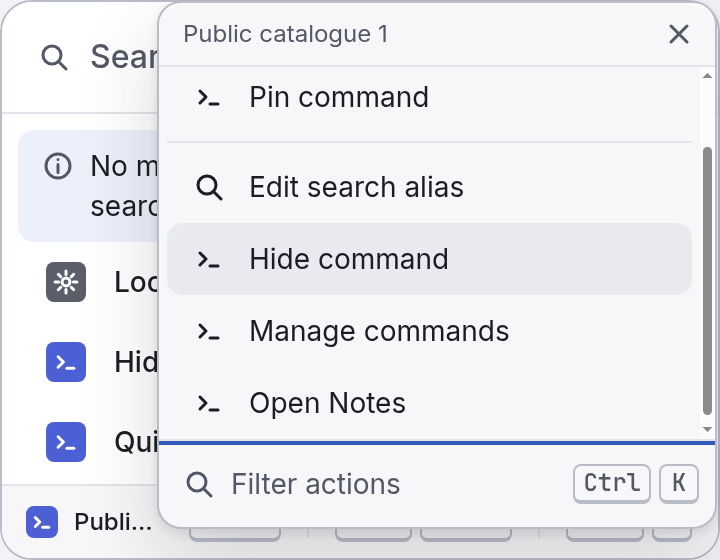
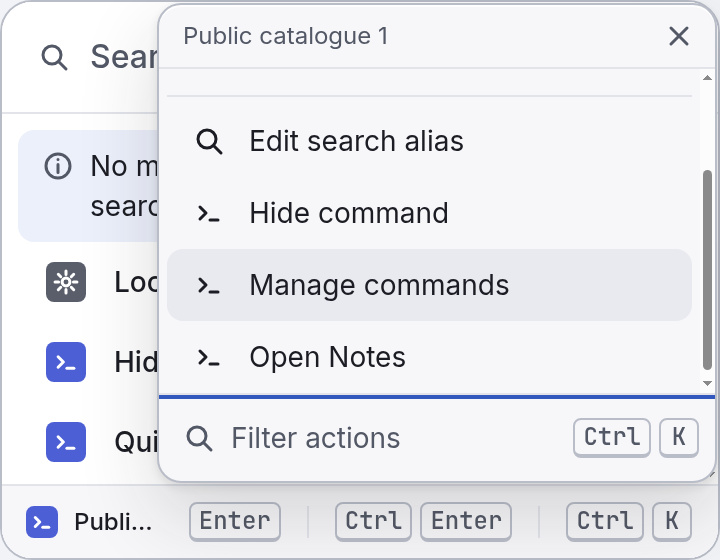
fix(ui): scope footer chords, reveal cleared-query selection, re-anchor live action panel
- Footer Enter/Ctrl+Enter keycaps (and their accessible-name hint) are shown
  only while those chords are bound: while an editable control other than the
  collection query has focus they keep native editing behaviour and the verbs
  stay plain buttons. Controls inside dialogs do not change the context, which
  avoids a hint flip/layout shift that could swallow the next click.
- After a nonempty root query is cleared, the preserved stable selection is
  scrolled into the result viewport once the settled unfiltered results
  render; no focus change, invocation or scrolling on later revisions.
- The open action panel re-anchors on every render and on panel/footer/shell
  resize, bounded to the shell above the footer (viewport fallback when header
  + one row + filter cannot fit). A live snapshot that grows the actions no
  longer pushes the filter below the viewport; focus, highlight, scroll and
  current-revision dispatch are unchanged. ResizeObserver is optional.

Regressions (Chromium) fail on eae6a6d and pass here: editable text footer,
cleared-query reveal and live action growth/shrink; the non-editable detail
control passes on both. New captures added; only panel-placement captures
regenerated, historical/unaffected captures restored.

diff --git a/packages/ui/src/views/renderer.tsx b/packages/ui/src/views/renderer.tsx
@@ -76,21 +76,41 @@ function ActionPanel({ actions, context, invoke, close, host }: { actions: Actio
   const active = filtered.find(action => action.id === selected) ?? filtered[0];
   const id = useId();
   useLayoutEffect(() => { const prior = document.activeElement; const element = dialog.current; element?.showModal(); element?.querySelector<HTMLInputElement>('input[type="search"]')?.focus(); return () => { element?.close(); if (prior instanceof HTMLElement && prior.isConnected) prior.focus(); }; }, []);
+  // Anchor above the footer hint, bounded by the shell and viewport. The list scrolls so the
+  // header and bottom filter stay reachable in compact windows, at 200% zoom and when a live
+  // snapshot grows or shrinks the actions while the panel is open. Placement only: it never
+  // moves focus, the highlight or the list scroll position.
+  const place = useRef(() => {});
+  place.current = () => {
+    const element = dialog.current; const view = element?.closest('.lc-view'); const shell = element?.closest('.lc-view-shell');
+    if (!element || !shell) return;
+    const bounds = shell.getBoundingClientRect(); const footer = view?.querySelector('.lc-view-footer')?.getBoundingClientRect();
+    const gap = parseFloat(getComputedStyle(element).getPropertyValue('--lc-panel-gap')) || 8;
+    const anchor = Math.min(footer && footer.height ? footer.top : bounds.bottom, window.innerHeight) - gap;
+    // Prefer the shell space above the footer; if even header + one row + filter cannot fit
+    // there, fall back to the viewport so every control stays reachable.
+    const parts = ['.lc-panel-header', '.lc-panel-filter', '.lc-panel-action, .lc-panel-empty'].map(selector => element.querySelector<HTMLElement>(selector)?.offsetHeight ?? 0);
+    const edges = element.offsetHeight - element.clientHeight;
+    const minimum = parts.reduce((total, value) => total + value, edges);
+    const ceiling = Math.max(gap, bounds.top + gap), fits = anchor - ceiling >= minimum;
+    const cap = Math.max(0, fits ? anchor - ceiling : window.innerHeight - gap * 2);
+    if (element.style.maxBlockSize !== `${cap}px`) element.style.maxBlockSize = `${cap}px`;
+    const size = element.getBoundingClientRect();
+    element.style.left = `${Math.max(gap, Math.min(bounds.right - size.width - gap, window.innerWidth - size.width - gap))}px`;
+    element.style.top = `${Math.max(fits ? ceiling : gap, Math.min(anchor - size.height, window.innerHeight - gap - size.height))}px`;
+  };
+  // Every render (new actions, filter, revision) re-anchors synchronously before paint.
+  useLayoutEffect(() => { place.current(); });
   useLayoutEffect(() => {
-    // Anchor above the footer hint, inside the shell and viewport. The list scrolls so the
-    // header and bottom filter stay reachable in compact windows and at 200% zoom.
-    const position = () => {
-      const element = dialog.current; const view = element?.closest('.lc-view'); const shell = element?.closest('.lc-view-shell');
-      if (!element || !shell) return;
-      const bounds = shell.getBoundingClientRect(); const footer = view?.querySelector('.lc-view-footer')?.getBoundingClientRect();
-      const gap = parseFloat(getComputedStyle(element).getPropertyValue('--lc-panel-gap')) || 8;
-      const size = element.getBoundingClientRect();
-      const anchor = Math.min(footer && footer.height ? footer.top : bounds.bottom, window.innerHeight) - gap;
-      element.style.left = `${Math.max(gap, Math.min(bounds.right - size.width - gap, window.innerWidth - size.width - gap))}px`;
-      element.style.top = `${Math.max(gap, anchor - size.height)}px`;
-    };
-    position(); window.addEventListener('resize', position); return () => window.removeEventListener('resize', position);
-  }, [query]);
+    const element = dialog.current; const view = element?.closest('.lc-view');
+    let frame = 0;
+    const schedule = () => { if (!frame) frame = requestAnimationFrame(() => { frame = 0; place.current(); }); };
+    // Environments without ResizeObserver still re-anchor on every render and window resize.
+    const observer = typeof ResizeObserver === 'undefined' ? null : new ResizeObserver(schedule);
+    for (const target of [element, element?.querySelector('.lc-action-list'), view?.querySelector('.lc-view-footer'), element?.closest('.lc-view-shell')]) if (target) observer?.observe(target);
+    window.addEventListener('resize', schedule);
+    return () => { cancelAnimationFrame(frame); observer?.disconnect(); window.removeEventListener('resize', schedule); };
+  }, []);
   const keys = (event: KeyboardEvent) => {
     if (event.nativeEvent.isComposing) return;
     event.stopPropagation();
@@ -164,6 +184,7 @@ function useGridColumns(grid: RefObject<HTMLDivElement | null>, enabled: boolean
       setColumns(width > 0 && cell > 0 ? Math.max(1, Math.floor((width + gap) / (cell + gap))) : 1);
     };
     measure();
+    if (typeof ResizeObserver === 'undefined') return;
     const observer = new ResizeObserver(measure); observer.observe(element);
     return () => observer.disconnect();
   }, [grid, enabled, density]);
@@ -186,6 +207,12 @@ function ViewContent({ frame, session, host, active, canBack }: { frame: ViewFra
   const [discard, setDiscard] = useState<'back' | 'cancel' | null>(null);
   const [text, setText] = useState(view.kind === 'text' ? view.text : '');
   const [split, setSplit] = useState(SPLIT.initial);
+  // Enter/Ctrl+Enter are not view chords while an editable control (other than the collection
+  // query) has focus: there they keep native editing behaviour. Footer hints follow that context.
+  const [editing, setEditing] = useState(false);
+  // One-shot: after a nonempty root query is cleared, reveal the preserved selection once the
+  // settled (non-loading) unfiltered results render. Ordinary revisions never scroll.
+  const reveal = useRef(false);
   const collection = view.kind === 'list' || view.kind === 'grid';
   const grid = view.kind === 'grid';
   const items = visibleItems(frame);
@@ -214,6 +241,7 @@ function ViewContent({ frame, session, host, active, canBack }: { frame: ViewFra
   };
   const changeQuery = (value: string) => {
     if (!collection || !uiTextSchema.safeParse(value).success) return;
+    reveal.current = !canBack && value === '' && frame.query !== '';
     session.setQuery(view.viewId, value);
     host.queryChanged?.(view.viewId, value, session.getSnapshot().frames.find(entry => entry.view.viewId === view.viewId)!.queryRevision);
   };
@@ -230,6 +258,18 @@ function ViewContent({ frame, session, host, active, canBack }: { frame: ViewFra
     }
     else setPanel(false);
   }, [active, frame.view.viewId, view.kind]); // Ordinary revisions never steal focus.
+  useLayoutEffect(() => {
+    if (!reveal.current || !active || !collection) return;
+    if (frame.query !== '') { reveal.current = false; return; }
+    if (view.loading || !selected) return;
+    reveal.current = false;
+    const row = document.getElementById(itemId(selected)); const box = scroller.current;
+    if (!row || !box || !box.contains(row)) return;
+    // Adjust only the result viewport: no focus change, no document scroll, no invocation.
+    const rowBox = row.getBoundingClientRect(), port = box.getBoundingClientRect();
+    if (rowBox.top < port.top) box.scrollTop -= port.top - rowBox.top;
+    else if (rowBox.bottom > port.bottom) box.scrollTop += rowBox.bottom - port.bottom;
+  });
   const select = (id: string) => { session.select(view.viewId, id); host.selectionChanged?.(view.viewId, id); };
   const invoke = (id: string) => {
     // Re-read current state at the user event, not the action panel's opening revision.
@@ -339,7 +379,8 @@ function ViewContent({ frame, session, host, active, canBack }: { frame: ViewFra
   else content = <UnavailableState title="PDF preview unavailable" description="Connect the sandboxed document viewer to preview this file. Available document actions remain below." />;
   const secondary = view.kind !== 'form' ? actions[1] : undefined;
   const footerPrimary = view.kind !== 'form' ? actions[0] : undefined;
-  return <div ref={root} hidden={!active} className="lc-view" tabIndex={-1} onKeyDown={keyboard} onFocusCapture={event => { previousFocus.current = event.target; }}>
+  return <div ref={root} hidden={!active} className="lc-view" tabIndex={-1} onKeyDown={keyboard} onFocusCapture={event => { previousFocus.current = event.target; setEditing(editable(event.target) && !(event.target instanceof HTMLInputElement && event.target.dataset.viewQuery === 'true') && !(event.target instanceof HTMLElement && event.target.closest('dialog'))); }}
+    onBlurCapture={event => { if (!(event.relatedTarget instanceof Node && event.currentTarget.contains(event.relatedTarget))) setEditing(false); }}>
     <header className="lc-view-header" data-loading={view.loading || undefined}>
       {canBack ? <IconButton label="Back" aria-keyshortcuts="Escape" onClick={() => requestClose('back')}><LineIcon name="back" /></IconButton> : collection ? <span className="lc-view-search-glyph" aria-hidden="true"><LineIcon name="search" /></span> : null}
       {collection ? <TextField label={view.title} type="search" role="combobox" data-view-query="true" value={frame.query} placeholder={view.search.placeholder}
@@ -360,8 +401,8 @@ function ViewContent({ frame, session, host, active, canBack }: { frame: ViewFra
         <span className="lc-footer-title" dir="auto">{selected?.title ?? view.title}</span>
       </span>
       <div className="lc-footer-actions">
-        {footerPrimary && <Button variant="ghost" className="lc-footer-verb" aria-disabled={Boolean(footerPrimary.disabledReason)} title={footerPrimary.disabledReason} onClick={() => invoke(footerPrimary.id)}><span className="lc-footer-label">{footerPrimary.title}</span><ShortcutHint keys={['Enter']} /></Button>}
-        {secondary && <><span className="lc-footer-separator" aria-hidden="true" /><Button variant="ghost" className="lc-footer-verb" aria-disabled={Boolean(secondary.disabledReason)} title={secondary.disabledReason} onClick={() => invoke(secondary.id)}><span className="lc-footer-label">{secondary.title}</span><ShortcutHint keys={['Ctrl', 'Enter']} /></Button></>}
+        {footerPrimary && <Button variant="ghost" className="lc-footer-verb" aria-disabled={Boolean(footerPrimary.disabledReason)} title={footerPrimary.disabledReason} onClick={() => invoke(footerPrimary.id)}><span className="lc-footer-label">{footerPrimary.title}</span>{!editing && <ShortcutHint keys={['Enter']} />}</Button>}
+        {secondary && <><span className="lc-footer-separator" aria-hidden="true" /><Button variant="ghost" className="lc-footer-verb" aria-disabled={Boolean(secondary.disabledReason)} title={secondary.disabledReason} onClick={() => invoke(secondary.id)}><span className="lc-footer-label">{secondary.title}</span>{!editing && <ShortcutHint keys={['Ctrl', 'Enter']} />}</Button></>}
         {footerPrimary && <span className="lc-footer-separator" aria-hidden="true" />}
         <Button variant="ghost" className="lc-footer-verb" aria-haspopup="dialog" aria-expanded={panel && active} onClick={() => setPanel(true)}><span className="lc-footer-label">Actions</span> <ShortcutHint keys={['Ctrl', 'K']} /></Button>
       </div>

diff --git a/packages/ui/src/views/views.test.ts b/packages/ui/src/views/views.test.ts
@@ -283,3 +283,85 @@ test('composing Enter repeats retain native IME behavior while ordinary repeats 
   expect(await box.evaluate(element=>element.dispatchEvent(new KeyboardEvent('keydown',{key:'Enter',repeat:true,bubbles:true,cancelable:true})))).toBe(false);
   await expect(box).toBeVisible();await expect(page.locator('output')).toHaveText('No action requested.');
 });
+
+test('editable text footer advertises Enter/Ctrl+Enter only in contexts where those chords are bound', async ({ page }) => {
+  await page.getByRole('button', { name: 'Text', exact: true }).click();
+  const text = page.getByRole('textbox', { name: 'Public note', exact: true }); const footer = page.locator('.lc-view-footer');
+  await expect(text).toBeFocused();
+  // In the textarea Enter/Ctrl+Enter are native editing keys: no chord hint, no action.
+  await expect(footer.getByRole('button', { name: 'Save note', exact: true })).toBeVisible();
+  await expect(footer.getByRole('button', { name: 'Copy reference', exact: true })).toBeVisible();
+  await expect(footer.getByRole('img', { name: 'Enter', exact: true })).toHaveCount(0); await expect(footer.getByRole('img', { name: 'Ctrl+Enter', exact: true })).toHaveCount(0);
+  await expect(footer.getByRole('button', { name: 'Actions Ctrl+K', exact: true })).toBeVisible();
+  await text.press('End'); await text.press('Enter'); await page.keyboard.type('second public line'); await text.press('Control+Enter');
+  await expect(text).toHaveValue('First public line\nsecond public line'); await expect(page.locator('output')).toHaveText('No action requested.');
+  await page.setViewportSize({ width: 560, height: 1100 });
+  expect(await footer.getByRole('button', { name: 'Save note', exact: true }).locator('.lc-footer-label').evaluate(label => getComputedStyle(label).clipPath)).toBe('none'); // label stays visible without a keycap
+  await shot(page, 'dark-text-editing-footer');
+  await page.setViewportSize({ width: 1040, height: 1100 });
+  // Leaving the editor for the view surface restores the genuine chords, which then work.
+  await page.getByRole('heading', { name: 'Public note', exact: true }).click(); await expect(text).not.toBeFocused();
+  await expect(footer.getByRole('button', { name: 'Save note Enter', exact: true })).toBeVisible();
+  await expect(footer.getByRole('button', { name: 'Copy reference Ctrl+Enter', exact: true })).toBeVisible();
+  await shot(page, 'dark-text-view-footer');
+  await page.keyboard.press('Control+Enter'); await expect(page.locator('output')).toHaveText('Requested copy at revision 1.');
+  await page.keyboard.press('Enter'); await expect(page.locator('output')).toHaveText('Requested save-text at revision 1 with 1 fields.');
+  await text.focus(); await expect(footer.getByRole('img', { name: 'Enter', exact: true })).toHaveCount(0);
+});
+
+test('non-editable detail keeps genuine Enter hints and actions', async ({ page }) => {
+  await page.getByRole('button', { name: 'Detail', exact: true }).click();
+  const article = page.locator('article.lc-detail'); await expect(article).toBeFocused();
+  await expect(page.locator('.lc-view-footer').getByRole('button', { name: 'Copy reference Enter', exact: true })).toBeVisible();
+  await article.press('Enter'); await expect(page.locator('output')).toHaveText('Requested copy at revision 1.');
+});
+
+test('clearing the root query reveals the preserved selection once, without focus, invocation or later forced scrolling', async ({ page }) => {
+  await page.getByRole('button', { name: 'Long list', exact: true }).click();
+  const box = query(page, 'Long library'); const scroller = page.locator('.lc-view:visible .lc-view-scroll');
+  const visible = (name: string) => page.getByRole('option', { name: new RegExp(name) }).evaluate(row => { const a = row.getBoundingClientRect(), b = row.closest('.lc-view-scroll')!.getBoundingClientRect(); return a.top >= b.top - 1 && a.bottom <= b.bottom + 1; });
+  await box.fill('Public item 50'); await expect(page.getByRole('option')).toHaveCount(1);
+  await box.press('Escape'); await expect(box).toHaveValue(''); await expect(box).toBeFocused(); await expect(page.getByRole('option')).toHaveCount(60);
+  await expect(page.getByRole('option', { name: /Public item 50/ })).toHaveAttribute('aria-selected', 'true');
+  expect(await scroller.evaluate(element => element.scrollTop)).toBeGreaterThan(0); expect(await visible('Public item 50')).toBe(true);
+  await expect(page.locator('output')).toHaveText('No action requested.');
+  // A later ordinary snapshot neither re-scrolls nor changes the stable selection.
+  await scroller.evaluate(element => { element.scrollTop = 0; });
+  await page.getByRole('button', { name: 'Async update', exact: true }).click(); await expect(page.getByRole('option', { name: /New arrival/ })).toBeAttached();
+  expect(await scroller.evaluate(element => element.scrollTop)).toBe(0);
+  await expect(page.getByRole('option', { name: /Public item 50/ })).toHaveAttribute('aria-selected', 'true'); await expect(page.locator('.lc-footer-title')).toHaveText('Public item 50');
+  // Clearing by editing the field reveals too; nested history and the query are untouched by the reveal.
+  await box.fill('Public item 45'); await box.fill(''); expect(await visible('Public item 45')).toBe(true); await expect(box).toBeFocused();
+  await box.press('Enter'); await expect(page.getByRole('heading', { name: 'A calmer workspace', exact: true })).toBeVisible(); await page.keyboard.press('Escape');
+  await expect(box).toHaveValue(''); await expect(page.getByRole('option', { name: /Public item 45/ })).toHaveAttribute('aria-selected', 'true');
+  await expect(page.locator('output')).toHaveText('Requested open at revision 2 for item-45.');
+});
+
+test('a live snapshot growing or shrinking actions re-anchors the open panel inside the shell and viewport', async ({ page }) => {
+  await page.setViewportSize({ width: 800, height: 600 }); await page.getByRole('button', { name: 'List', exact: true }).click();
+  const box = query(page); const panel = page.getByRole('dialog', { name: 'Actions', exact: true }); const filter = page.getByRole('searchbox', { name: 'Find an action', exact: true });
+  const geometry = () => panel.evaluate(async element => {
+    await Promise.all(element.getAnimations().map(animation => animation.finished));
+    const rect = element.getBoundingClientRect(), footer = element.closest('.lc-view')!.querySelector('.lc-view-footer')!.getBoundingClientRect();
+    const header = element.querySelector('.lc-panel-header')!.getBoundingClientRect(), filterBox = element.querySelector('.lc-panel-filter')!.getBoundingClientRect(), list = element.querySelector('.lc-action-list')!;
+    return { top: rect.top, shellTop: element.closest('.lc-view-shell')!.getBoundingClientRect().top, bottom: rect.bottom, footerTop: footer.top, viewport: innerHeight, headerTop: header.top, filterBottom: filterBox.bottom, scrollable: list.scrollHeight > list.clientHeight, rows: element.querySelectorAll('.lc-panel-action').length };
+  });
+  // Grow: panel opened with few actions, then revision 2 supplies 24 while the filter keeps focus.
+  await page.getByRole('button', { name: 'Grow actions later', exact: true }).click(); await box.press('Control+k'); await expect(filter).toBeFocused();
+  const before = await geometry(); expect(before.rows).toBeLessThan(6);
+  await expect(panel.locator('.lc-panel-action')).toHaveCount(25);
+  const grown = await geometry();
+  expect(grown.top).toBeGreaterThanOrEqual(0); expect(grown.top).toBeGreaterThanOrEqual(grown.shellTop); expect(grown.bottom).toBeLessThanOrEqual(grown.viewport); expect(grown.bottom).toBeLessThanOrEqual(grown.footerTop);
+  expect(grown.headerTop).toBeGreaterThanOrEqual(grown.top); expect(grown.filterBottom).toBeLessThanOrEqual(grown.bottom + 1); expect(grown.scrollable).toBe(true);
+  await expect(filter).toBeFocused(); await expect(filter).toHaveValue('');
+  await panel.getByRole('button', { name: 'Public action 24', exact: true }).scrollIntoViewIfNeeded(); await expect(panel.getByRole('button', { name: 'Public action 24', exact: true })).toBeInViewport();
+  await shot(page, 'dark-action-panel-grown');
+  await filter.press('ArrowDown'); await filter.press('Enter'); await expect(page.locator('output')).toHaveText('Requested public-action-02 at revision 2 for guide.');
+  // Shrink: open with 24, then revision 4 reduces to one; the panel drops back onto its footer anchor.
+  await page.getByRole('button', { name: 'Grow actions later', exact: true }).click(); await expect(page.locator('.lc-view-footer .lc-footer-verb').first()).toHaveAccessibleName('Public action 01 Enter');
+  await page.getByRole('button', { name: 'Shrink actions later', exact: true }).click(); await box.press('Control+k'); await expect(panel.locator('.lc-panel-action')).toHaveCount(25);
+  await expect(panel.locator('.lc-panel-action')).toHaveCount(2);
+  const shrunk = await geometry();
+  expect(shrunk.bottom).toBeLessThanOrEqual(shrunk.footerTop); expect(shrunk.footerTop - shrunk.bottom).toBeLessThan(16); expect(shrunk.top).toBeGreaterThan(grown.top + 100);
+  await expect(filter).toBeFocused(); await filter.press('Enter'); await expect(page.locator('output')).toHaveText('Requested public-action-01 at revision 4 for guide.');
+});

diff --git a/packages/ui/src/views/fixtures/main.tsx b/packages/ui/src/views/fixtures/main.tsx
@@ -4,7 +4,7 @@ import { Button, ThemeProvider } from '../../primitives/index.ts';
 import type { Appearance } from '../../primitives/index.ts';
 import { ViewSession, ViewRenderer } from '../index.ts';
 import type { ViewHost } from '../types.ts';
-import { list, grid, detail, form, split, glyphGrid } from './models.ts';
+import { list, grid, detail, form, split, glyphGrid, note, longList } from './models.ts';
 import '../../primitives/primitives.css';
 import '../views.css';
 import './preview.css';
@@ -20,12 +20,14 @@ function Example() {
     openLink: () => setEvent('Public link intent received.'),
     sealSecret: async () => { setSealed(true); return { secretHandle: 'public-test-handle' }; }, releaseSecret: () => { setSealed(false); },
   };
+  // Later snapshot that changes the first item's action count while the action panel may be open.
+  const resizeActions = (count: number) => { window.setTimeout(() => { const current = session.getSnapshot().frames.at(-1)?.view; if (!current || current.kind !== 'list') return; session.update(current.viewId, { protocolVersion: 1, kind: 'snapshot', view: { ...current, revision: current.revision + 1, sections: current.sections.map((section, index) => index ? section : { ...section, items: section.items.map((item, position) => position ? item : { ...item, actions: Array.from({ length: count }, (_, number) => ({ id: `public-action-${String(number + 1).padStart(2, '0')}`, title: `Public action ${String(number + 1).padStart(2, '0')}`, kind: 'invoke' as const, effect: 'read' as const })) }) }) } }); }, 400); };
   const replace = (view: unknown) => { session.close(); setSession(new ViewSession(view, id => setClosed(id))); setEvent('No action requested.'); setSealed(false); };
   const refresh = () => { const current = session.getSnapshot().frames.at(-1)?.view; if (!current || current.kind !== 'list') return; session.update(current.viewId, { protocolVersion: 1, kind: 'snapshot', view: { ...current, revision: current.revision + 1, sections: [{ ...current.sections[0], items: [{ id: 'new', title: 'New arrival', actions: [current.sections[0]!.items[0]!.actions![0]] }, ...current.sections[0]!.items] }, ...current.sections.slice(1)] } }); };
   return <ThemeProvider appearance={appearance}><main className="view-example"><header><p className="example-kicker">LINUXCAST · COMPONENT EXAMPLES</p><h1>One familiar place to work.</h1><p className="lc-muted">Host-rendered views. Public synthetic content. No system operations.</p></header>
-    <nav aria-label="Example views">{Object.entries({ List: list, Grid: grid, Detail: detail, Form: form, Split: split, 'Glyph grid': glyphGrid }).map(([name, view]) => <Button key={name} onClick={() => replace(view)}>{name}</Button>)}<Button onClick={() => setAppearance(appearance === 'dark' ? 'light' : 'dark')}>Switch theme</Button></nav>
+    <nav aria-label="Example views">{Object.entries({ List: list, Grid: grid, Detail: detail, Form: form, Split: split, 'Glyph grid': glyphGrid, Text: note, 'Long list': longList }).map(([name, view]) => <Button key={name} onClick={() => replace(view)}>{name}</Button>)}<Button onClick={() => setAppearance(appearance === 'dark' ? 'light' : 'dark')}>Switch theme</Button></nav>
     <ViewRenderer session={session} host={host} />
-    <section className="example-controls" aria-label="Fixture controls"><Button onClick={refresh}>Async update</Button><Button onClick={() => { window.setTimeout(refresh, 400); }}>Delayed update</Button><Button onClick={() => replace({ ...list, loading: true, sections: [] })}>Loading state</Button><Button onClick={() => replace({ ...list, sections: [] })}>Empty state</Button><Button onClick={() => replace({ ...list, status: { kind: 'error', message: 'The library could not refresh. Your existing items are still available.' } })}>Error state</Button><Button onClick={() => replace({ ...list, loading: true })}>Refreshing state</Button><Button onClick={() => replace({ ...list, status: { kind: 'warning', message: 'Directory access is required. Choose a directory in settings to continue.' } })}>Permission state</Button><Button onClick={() => replace({ ...detail, markdown: '<script>window.attack = true</script>\n\n<img src="https://example.org/track" onerror="alert(1)">\n\n[Bad](javascript:alert%281%29)\n\n![Tracking](https://example.org/pixel)\n\n[Safe](https://example.org/guide)' })}>Adversarial Markdown</Button><Button onClick={() => replace({ ...list, component: 'script', code: 'alert(1)' })}>Malformed view</Button><Button onClick={() => session.navigate({ protocolVersion: 1, kind: 'push', fromViewId: session.getSnapshot().frames.at(-1)?.view.viewId, view: detail })}>Push detail</Button></section>
+    <section className="example-controls" aria-label="Fixture controls"><Button onClick={refresh}>Async update</Button><Button onClick={() => { window.setTimeout(refresh, 400); }}>Delayed update</Button><Button onClick={() => resizeActions(24)}>Grow actions later</Button><Button onClick={() => resizeActions(1)}>Shrink actions later</Button><Button onClick={() => replace({ ...list, loading: true, sections: [] })}>Loading state</Button><Button onClick={() => replace({ ...list, sections: [] })}>Empty state</Button><Button onClick={() => replace({ ...list, status: { kind: 'error', message: 'The library could not refresh. Your existing items are still available.' } })}>Error state</Button><Button onClick={() => replace({ ...list, loading: true })}>Refreshing state</Button><Button onClick={() => replace({ ...list, status: { kind: 'warning', message: 'Directory access is required. Choose a directory in settings to continue.' } })}>Permission state</Button><Button onClick={() => replace({ ...detail, markdown: '<script>window.attack = true</script>\n\n<img src="https://example.org/track" onerror="alert(1)">\n\n[Bad](javascript:alert%281%29)\n\n![Tracking](https://example.org/pixel)\n\n[Safe](https://example.org/guide)' })}>Adversarial Markdown</Button><Button onClick={() => replace({ ...list, component: 'script', code: 'alert(1)' })}>Malformed view</Button><Button onClick={() => session.navigate({ protocolVersion: 1, kind: 'push', fromViewId: session.getSnapshot().frames.at(-1)?.view.viewId, view: detail })}>Push detail</Button></section>
     <output className="example-event" data-sealed={sealed} data-closed={closed}>{event}</output>
   </main></ThemeProvider>;
 }

diff --git a/packages/ui/src/views/fixtures/models.ts b/packages/ui/src/views/fixtures/models.ts
@@ -33,3 +33,7 @@ export const glyphGrid: ViewModel = { protocolVersion: 1, viewId: 'public-glyphs
   { id: 'faces', title: 'Smileys', items: glyphs.slice(0, 8).map(glyphItem) },
   { id: 'nature', title: 'Animals and nature', items: [...glyphs.slice(8).map(glyphItem), { id: 'unavailable', title: 'Unavailable public glyph', icon: { kind: 'glyph' as const, value: '🦄' }, disabledReason: 'Not available in this public fixture.' }] },
 ] };
+export const note: ViewModel = { protocolVersion: 1, viewId: 'public-note', revision: 1, kind: 'text', title: 'Public note', text: 'First public line', editable: true, submitActionId: 'save-text', actions: [{ id: 'save-text', title: 'Save note', kind: 'invoke', effect: 'write' }, copy] };
+export const longList: ViewModel = { protocolVersion: 1, viewId: 'long-library', revision: 1, kind: 'list', title: 'Long library', search: { placeholder: 'Search long library…', query: '', mode: 'host' }, sections: [
+  { id: 'all', title: 'All public items', items: Array.from({ length: 60 }, (_, index) => ({ id: `item-${index + 1}`, title: `Public item ${String(index + 1).padStart(2, '0')}`, subtitle: 'Synthetic row', icon: { kind: 'builtin' as const, name: 'file' }, actions: [open, copy] })) },
+] };

diff --git a/packages/ui/src/views/views.css b/packages/ui/src/views/views.css
@@ -164,8 +164,9 @@
   .lc-collection-layout[data-detail='true'] { display: flex; flex-direction: column; gap: var(--lc-space-8); }
   .lc-split { display: none; }
   .lc-item-preview { position: static; padding: var(--lc-space-12) var(--lc-space-8); border-block-start: var(--lc-hairline) solid var(--lc-divider); }
-  /* Labels hide visually; accessible names keep them. */
-  .lc-footer-label { position: absolute; inline-size: 1px; block-size: 1px; overflow: hidden; clip-path: inset(50%); white-space: nowrap; }
+  /* Labels hide visually behind their keycaps; accessible names keep them. A verb without a
+     keycap in the current context keeps its visible label. */
+  .lc-footer-verb:has(.lc-shortcut) .lc-footer-label { position: absolute; inline-size: 1px; block-size: 1px; overflow: hidden; clip-path: inset(50%); white-space: nowrap; }
 }
 
 .lc-view-announcement { position: absolute; inline-size: 1px; block-size: 1px; overflow: hidden; clip-path: inset(50%); white-space: nowrap; }

diff --git a/packages/ui/src/views/README.md b/packages/ui/src/views/README.md
@@ -60,11 +60,21 @@ user intent; the UI never displays operation success based on that return.
   with an accessible “(destructive)” suffix), and the “Find an action” filter at the
   bottom. Arrows move, Enter dispatches the highlighted action, Escape or Ctrl+K close
   and focus returns. The list scrolls so header and filter stay reachable in compact
-  windows and at 200% zoom. Grouping is visual only: the initial highlight is the
+  windows and at 200% zoom, and placement re-anchors on every render and on panel/footer/
+  shell resize, so a live snapshot that grows or shrinks the actions keeps the panel inside
+  the shell and viewport above the footer without moving focus, highlight or scroll.
+  Grouping is visual only: the initial highlight is the
   current primary and dispatch re-reads the latest view/revision/selection.
 - The footer status line shows the selected item's small glyph and title, the bound
   primary (Enter) and secondary (Ctrl+Enter) verbs only when supplied, and Actions
-  (Ctrl+K). No type label is inferred (the ViewModel has no type field).
+  (Ctrl+K). Enter/Ctrl+Enter keycaps appear only while those chords are bound: while an
+  editable control other than the collection query has focus (for example an editable
+  text view) the verbs stay as plain buttons and the keys keep native editing behaviour.
+  No object type label is shown: the frozen ViewModel has no type field, so the selected
+  footer type remains a pending contract/adoption limit rather than an inferred value.
+- After a nonempty root query is cleared (Escape or editing), the preserved selection is
+  scrolled into the result viewport once the settled unfiltered results render; focus
+  stays in the query, nothing is invoked, and ordinary later revisions never scroll.
 - Root Escape closes the action panel, then clears a nonempty query, then pops the
   root (the broker owns actual dismissal). Nested Escape closes the panel, then pops
   with the parent's query/selection/focus. Dirty forms/text request explicit discard
@@ -156,8 +166,10 @@ physical input, privileged service or real filesystem operation was exercised.
 
 Selected Opus Instrument presentation (DESIGN.md: Shell and navigation; Results and
 actions; List, grid, detail and form; States and motion; Accessibility) on the merged
-D1-01 primitives. `views.test.ts` now covers 19 Chromium cases including the combobox/
-listbox relationship, root/nested Escape order, footer verbs, action-panel geometry and
+D1-01 primitives. `views.test.ts` now covers 23 Chromium cases including the combobox/
+listbox relationship, root/nested Escape order, footer verbs and context-scoped chord
+hints, selection reveal after clearing the root query, live action growth/shrink panel
+re-anchoring, action-panel geometry and
 destructive grouping, stale-snapshot dispatch, grid rows/columns/Home/End, separator
 keys/pointer, truthful state bands, 480 px at 200% text, forced colours and reduced
 motion. Captures are in `evidence/instrument/` (see its README); earlier files in

diff --git a/packages/ui/src/views/evidence/instrument/README.md b/packages/ui/src/views/evidence/instrument/README.md
@@ -12,6 +12,8 @@ assistive-technology acceptance. Earlier captures in `../` are historical.
 | `{dark,light}-split.png`, `dark-split-pdf-band.png`, `dark-split-narrow.png` | List/detail separator at 42%, PDF unavailable band beside rows, stacked below 600 px |
 | `{dark,light}-glyph-grid.png` | Compact emoji grid, grouped rows, bottom selection rail, footer context |
 | `{dark,light}-action-panel.png`, `dark-actions-filtered.png` | 280 px panel, bottom filter, destructive-last group |
+| `dark-action-panel-grown.png` | Panel re-anchored inside the shell after a live revision grows the actions to 25 (800×600 viewport) |
+| `dark-text-editing-footer.png`, `dark-text-view-footer.png` | Editable text: no Enter/Ctrl+Enter keycaps while the textarea has focus (560 px, labels stay visible); keycaps return on the view surface |
 | `dark-loading.png`, `dark-refreshing.png`, `dark-empty.png`, `dark-error.png`, `dark-permission.png` | Loading plate/hairline, refresh keeping rows, empty plate, error and caller-copy warning bands |
 | `dark-form-validation.png`, `dark-discard-draft.png` | Inline validation and discard confirmation |
 | `text-200-actions.png`, `text-200-480-actions.png` | 200% text at 720 px and 480 px with every panel control reachable |
